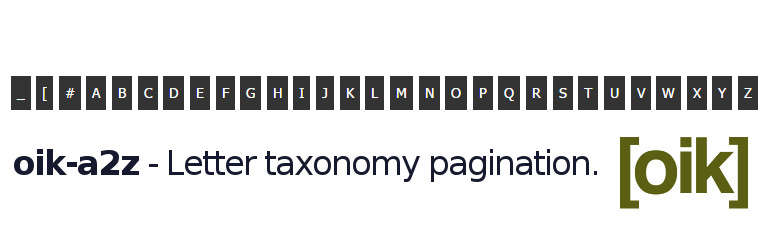
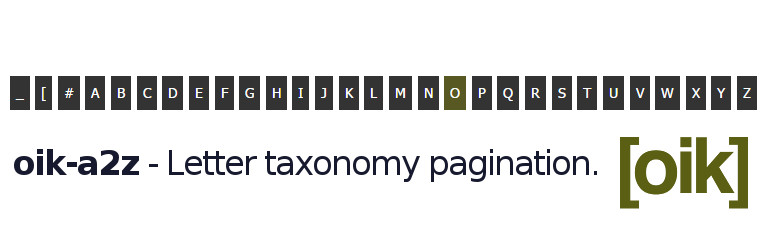
Issue #1 - highlight the selected taxonomy term

Changed region(s): [[0.0311, 0.308, 0.9948, 0.448]]

diff --git a/oik-a2z.php b/oik-a2z.php
@@ -4,7 +4,7 @@
 Plugin Name: oik-a2z
 Plugin URI: http://www.oik-plugins.com/oik-plugins/oik-a2z
 Description: Letter taxonomy pagination
-Version: 0.0.1
+Version: 0.0.2
 Author: bobbingwide
 Author URI: http://www.oik-plugins.com/author/bobbingwide
 License: GPLv2 or later

diff --git a/README.md b/README.md
@@ -28,9 +28,12 @@ See https://github.com/bobbingwide/oik-a2z/issues/1
 1. Define additional post type to pagination taxonomy relationships
 
 ## Screenshots 
-1. oik-a2z in action
+1. Displaying the Letter taxonomy for 'l'
 
 ## Upgrade Notice 
+# 0.0.2 
+Now highlights the currently active taxonomy term.
+
 # 0.0.1 
 Now provides 'oik_a2z_display' action for use in themes.
 
@@ -38,6 +41,9 @@ Now provides 'oik_a2z_display' action for use in themes.
 New plugin, available from oik-plugins and GitHub
 
 ## Changelog 
+# 0.0.2 
+* Changed: Highlights the currently active term.
+
 # 0.0.1 
 * Changed: Implement 'oik_a2z_display' https://github.com/bobbingwide/oik-a2z/issues/1
 * Changed: Improve improve batch facility to set letter terms https://github.com/bobbingwide/oik-a2z/issues/2
